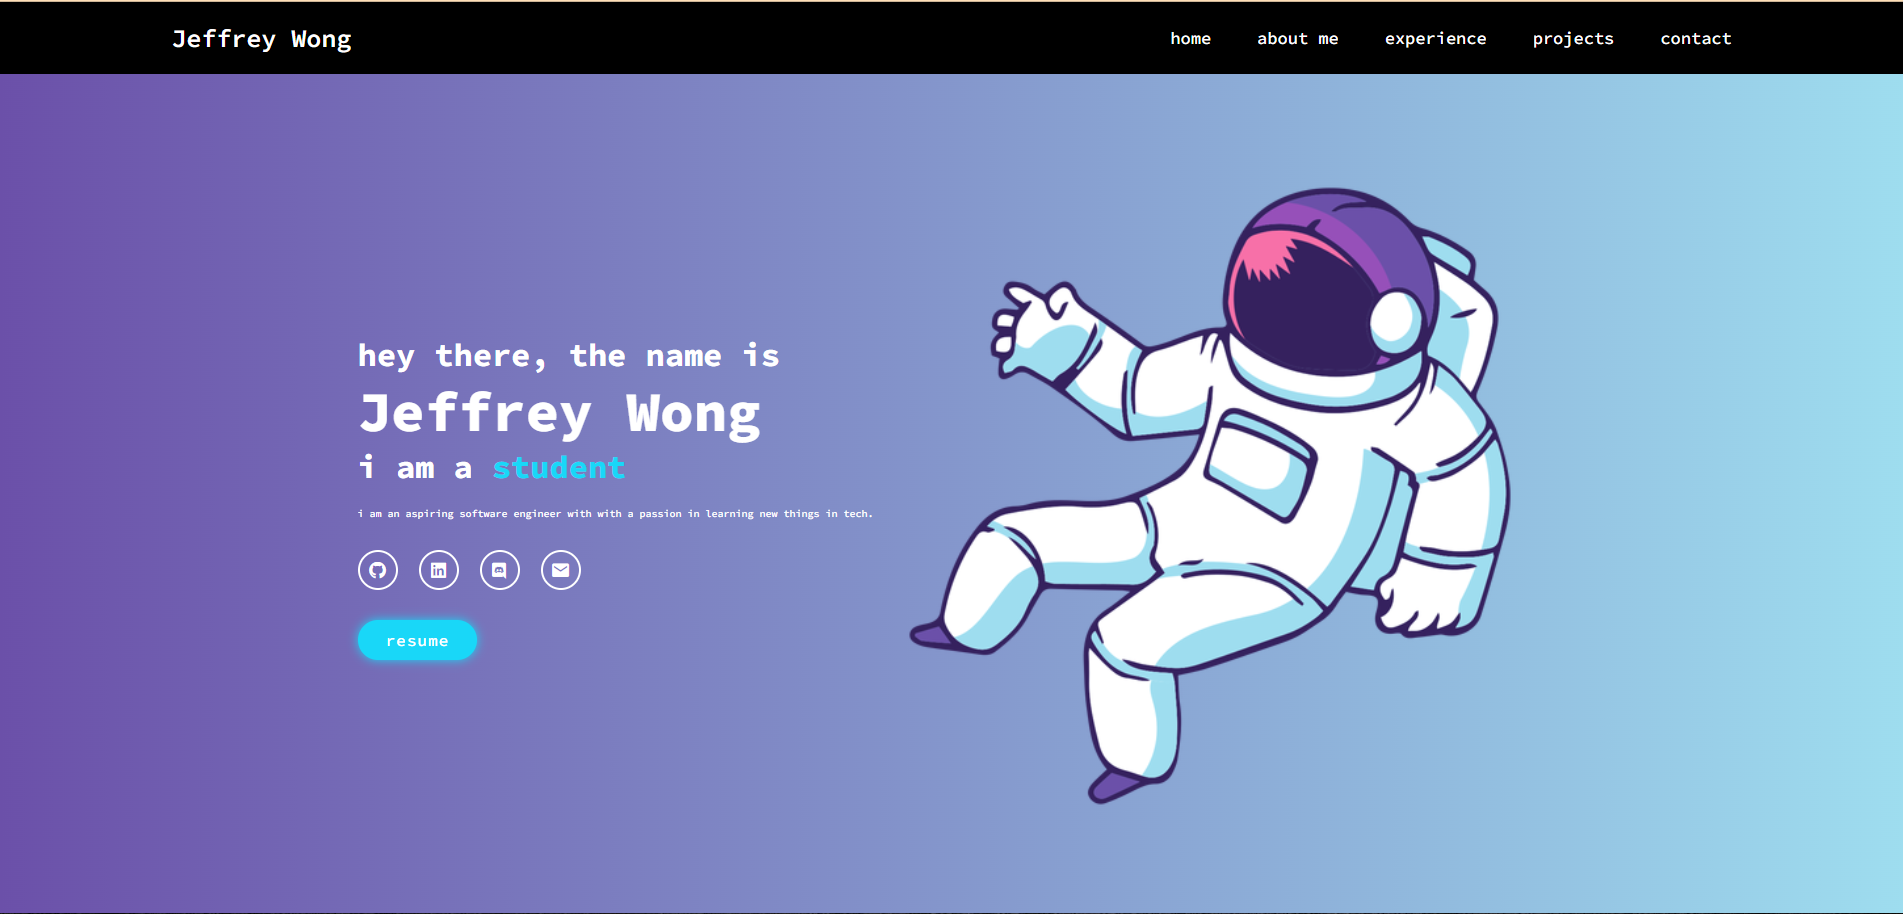
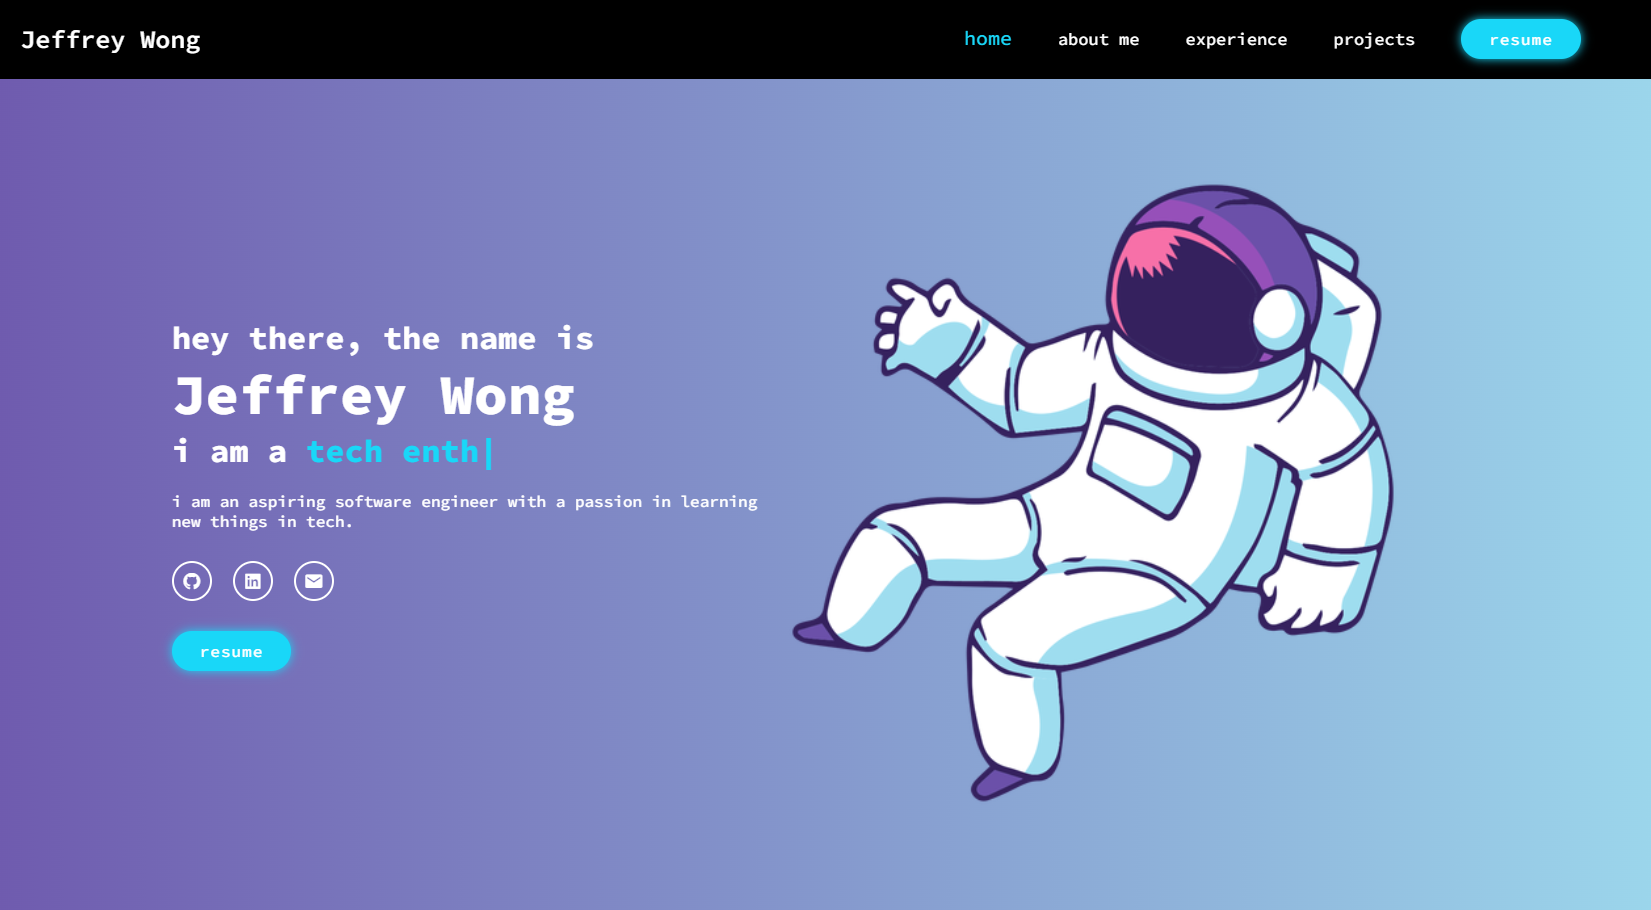
Draft 9
Super close to finishing, needs some refinery, maxwell logo is still messed up and I don't really like the font anywhere (except for the home section)

diff --git a/index.html b/index.html
@@ -38,8 +38,7 @@
             <div class="social-media">
                 <a href="https://github.com/JeffreyWongg" target="_blank"><i class='bx bxl-github'></i></a>
                 <a href="https://www.linkedin.com/in/jeffrey-wong-bb1173261/" target="_blank"><i class='bx bxl-linkedin-square'></i></a>
-                <a href=""><i class='bx bxl-discord'></i></a>
-                <a href=""><i class='bx bxs-envelope'></i></a>
+                <a href="mailto: jeffrey.wong.businessmail@gmail.com"><i class='bx bxs-envelope'></i></a>
             </div>
             <a href="https://drive.google.com/file/d/1iL5YZwwthRQFVJFsG3Nwg__GUVyZf27e/view?usp=drive_link" target="_blank" class="btn">resume</a>
         </div>
@@ -56,9 +55,17 @@
 
         <div class="about-content">
             <h2 class="heading"> <span>about me</span></h2>
-            <h3>student</h3>
-            <p>hey there hey there</p>
-            <a href="#" class="btn">read more</a>
+            <h3>grade 11 student</h3>
+            <p>I am a mainly self-taught programmer with a special interest in building new projects
+                and creating usable software. Over the past year, I immersed myself in the world
+                of computer science by coding several games, taking computer science courses, and
+                creating the computer science club at my school. My dream is to have my own tech
+                company where I can create captivating programs to help people worldwide. <br><br>
+                An important trait of mine is that I am a life-long learner. Whether it is in the sciences,
+                athletics, business, research, I am always open to challenging myself and learning new
+                things. 
+            </p>
+            <a href="https://www.linkedin.com/in/jeffrey-wong-bb1173261/" target="_blank" class="btn">discover more</a>
         </div>
     </section>
 
@@ -69,35 +76,44 @@
             <div class="experience-box">
                 <img src="assets/uoft.png"></img>
                 <h3>reo program</h3>
-                <p>went to the university of toronto </p>
+                <p>went to the university of toronto to research computer graphics alongside
+                    graduate/phd students
+                </p>
                 <a href="https://www.stemfellowship.org/research-exploration-opportunity/" target="_blank" class="btn">learn more</a>
             </div>
         
             <div class="experience-box">
                 <img src="assets/kumon.png"></img>
                 <h3>kumon</h3>
-                <p>went to the university of toronto</p>
+                <p>part time job where i tutor preschool to high school students in 
+                    math and reading
+                </p>
                 <a href="https://www.kumon.com/ca-en/" target="_blank" class="btn">learn more</a>
             </div>
         
             <div class="experience-box">
                 <img src="assets/shad.png"></img>
                 <h3>shad</h3>
-                <p>went to the university of toronto</p>
+                <p>summer program to immerse high-achieving high school students in a university
+                    lifestyle through attending lectures, performing labs, and creating projects
+                </p>
                 <a href="https://www.shad.ca/" target="_blank" class="btn">learn more</a>
             </div>
         
             <div class="experience-box">
                 <img src="assets/drps.png"></img>
                 <h3>youth in policing</h3>
-                <p>went to the university of toronto</p>
+                <p>part time job position to earn a co-op credit to help the durham region
+                    while building interpersonal skills
+                    through forums, workshops, and team activities
+                </p>
                 <a href="https://www.drps.ca/join-drps/youth-in-policing-initiative/" target="_blank" class="btn">learn more</a>
             </div>
 
             <div class="experience-box">
                 <img src="assets/maxwell.png"></img>
                 <h3>student council</h3>
-                <p>went to the university of toronto</p>
+                <p>run large events and charity events within the school </p>
                 <a href="https://www.instagram.com/maxwellheightsstudentcouncil/?hl=en" target="_blank" class="btn">learn more</a>
             </div>
         </div>
@@ -111,51 +127,47 @@
                 <img src="assets/website-project.png">
                 <div class="projects-layer">
                     <h4>this website!</h4>
-                    <p>coded in html, css, javascript</p>
+                    <p>my first project coded in html, css, javascript</p>
                     <a href="#"><i class='bx bx-link-external'></i></a>
                 </div>
             </div>
 
             <div class="projects-box">
-                <img src="assets/website-lockin.png">
+                <img src="assets/lockin-project.png">
                 <div class="projects-layer">
                     <h4>lockin extension</h4>
-                    <p>coded in html, css, javascript</p>
+                    <p>my first application coded in html, css, javascript, and python</p>
                     <a href="https://github.com/JeffreyWongg/chrome-extension-app-lockin" target="_blank"><i class='bx bx-link-external'></i></a>
                 </div>
             </div>
 
             <div class="projects-box">
-                <img src="assets/website-earls_farm.png">
+                <img src="assets/earls_farm-project.png">
                 <div class="projects-layer">
                     <h4>earl's farm</h4>
-                    <p>coded in html, css, javascript</p>
+                    <p>gui game coded in c# for my ICS3U course</p>
                     <a href="https://github.com/JeffreyWongg/earls-farm-game" target="_blank"><i class='bx bx-link-external'></i></a>
                 </div>
             </div>
 
             <div class="projects-box">
-                <img src="assets/website-project.jpg">
+                <img src="assets/orbit-project.png">
                 <div class="projects-layer">
                     <h4>orbital project</h4>
-                    <p>coded in html, css, javascript</p>
+                    <p>a combination of physics and python</p>
                     <a href="https://github.com/JeffreyWongg/orbital-simulation" target="_blank"><i class='bx bx-link-external'></i></a>
                 </div>
             </div>
 
             <div class="projects-box">
-                <img src="assets/website-project.jpg">
+                <img src="assets/c_sharp-project.png">
                 <div class="projects-layer">
                     <h4>c# work</h4>
-                    <p>coded in html, css, javascript</p>
+                    <p>all assignments/projects for ics3u course in c#</p>
                     <a href="https://github.com/JeffreyWongg/ICS3U" target="_blank"><i class='bx bx-link-external'></i></a>
                 </div>
             </div>
         </div>
-    </section>
-
-    <section class="contacts" id="contacts">
-        <h2 class="heading">my <span>contacts</span></h2>
     </section>
 
     <footer class="footer">
@@ -171,7 +183,6 @@
         <div class="social-media">
             <a href="https://github.com/JeffreyWongg" target="_blank"><i class='bx bxl-github'></i></a>
             <a href="https://www.linkedin.com/in/jeffrey-wong-bb1173261/" target="_blank"><i class='bx bxl-linkedin-square'></i></a>
-            <a href=""><i class='bx bxl-discord'></i></a>
             <a href=""><i class='bx bxs-envelope'></i></a>
         </div>
 
@@ -185,6 +196,8 @@
     <script src="https://unpkg.com/typed.js@2.1.0/dist/typed.umd.js"></script>
 
     <script src="script.js"></script>
+
+    </script>
 </body>
 
 </html>

diff --git a/styles.css b/styles.css
@@ -210,11 +210,29 @@ span {
     text-align: center;
     border: .2rem solid #000;
     transition: .5s ease;
+    backdrop-filter: blur(25px);
+    position: relative;
+    overflow: hidden;
 }
 
 .experience-container .experience-box:hover {
     border-color: #fff;
     transform: scale(1.02);
+}
+
+.experience-box::before {
+    content: " ";
+    position: absolute;
+    top: var(--y);
+    left: var(--x);
+    transform: translate(-50%, -50%);
+    background: radial-gradient(#19d7f8, transparent, transparent);
+    opacity: 0;
+    transition: 0.5s, top 0s, left 0s;
+}
+
+.experience-box:hover:before {
+    opacity: 1;
 }
 
 .experience-box h3 {
@@ -239,7 +257,8 @@ span {
     display: grid;
     grid-template-columns: repeat(3, 1fr);
     align-items: center;
-    gap: 2.5rem;
+    justify-content: center;
+    gap: 3rem;
 }
 
 .projects-container .projects-box {
@@ -248,7 +267,6 @@ span {
     box-shadow : 0 0 1rem #fff;
     overflow: hidden;
     display: flex;
-
 }
 
 .projects-box img {

diff --git a/script.js b/script.js
@@ -32,6 +32,14 @@ window.onscroll = () => {
     navbar.classList.remove("active");
 };
 
+document.querySelectorAll(".projects-box").forEach(item =>
+    {
+        item.onmousemove = e => {
+            item.style.setProperty("--x", (e.pageX - item.offsetLeft) + "px");
+            item.style.setProperty("--y", (e.pageY - item.offsetTop) + "px");
+        };
+    });
+
 ScrollReveal ({
     reset: true,
     distance: "80px",
